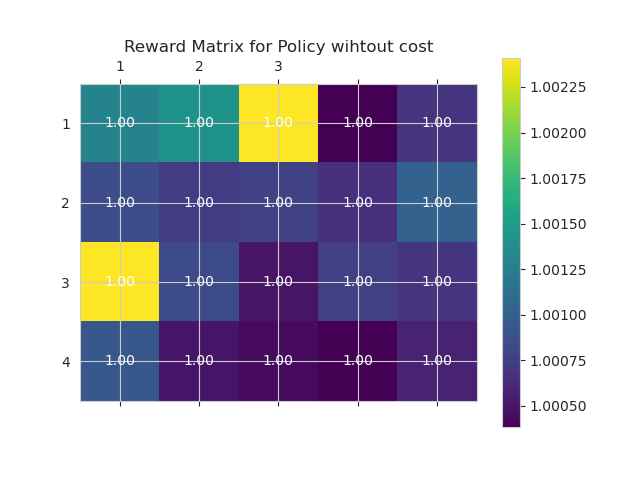
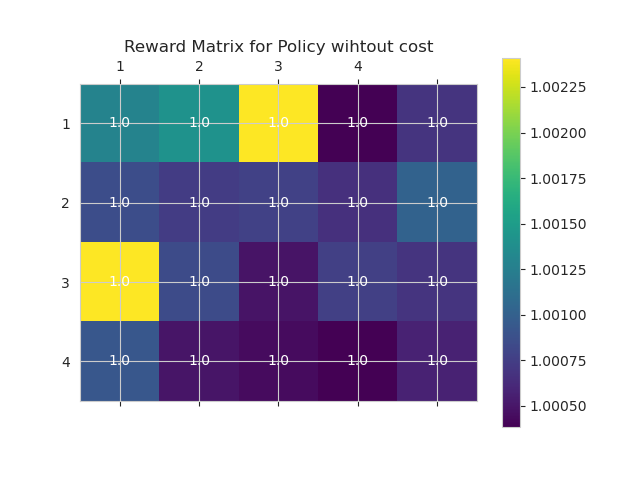
update values

diff --git a/ards_final_results.py b/ards_final_results.py
@@ -1466,11 +1466,11 @@ def compare_policies(policy1, policy2, reward1, reward2, name):
         # Loop over data dimensions and create text annotations.
         for i in range(closest_width):
             for j in range(len(data) // closest_width):
-                text = ax.text(j, i, f"{matrix[i, j]:.2f}", ha="center", va="center", color="w")
+                text = ax.text(j, i, f"{matrix[i, j]:.1f}", ha="center", va="center", color="w")
 
         # Set tick labels for the grid
-        ax.set_xticklabels([''] + list(range(1, closest_width)))
-        ax.set_yticklabels([''] + list(range(1, 11)))
+        ax.set_xticklabels([''] + list(range(1, closest_width + 1)))
+        ax.set_yticklabels([''] + list(range(1,  len(data) // closest_width + 1)))
         plt.title(title)
         plt.savefig(f'reward_matrix_{name}_{title}.png')
 
